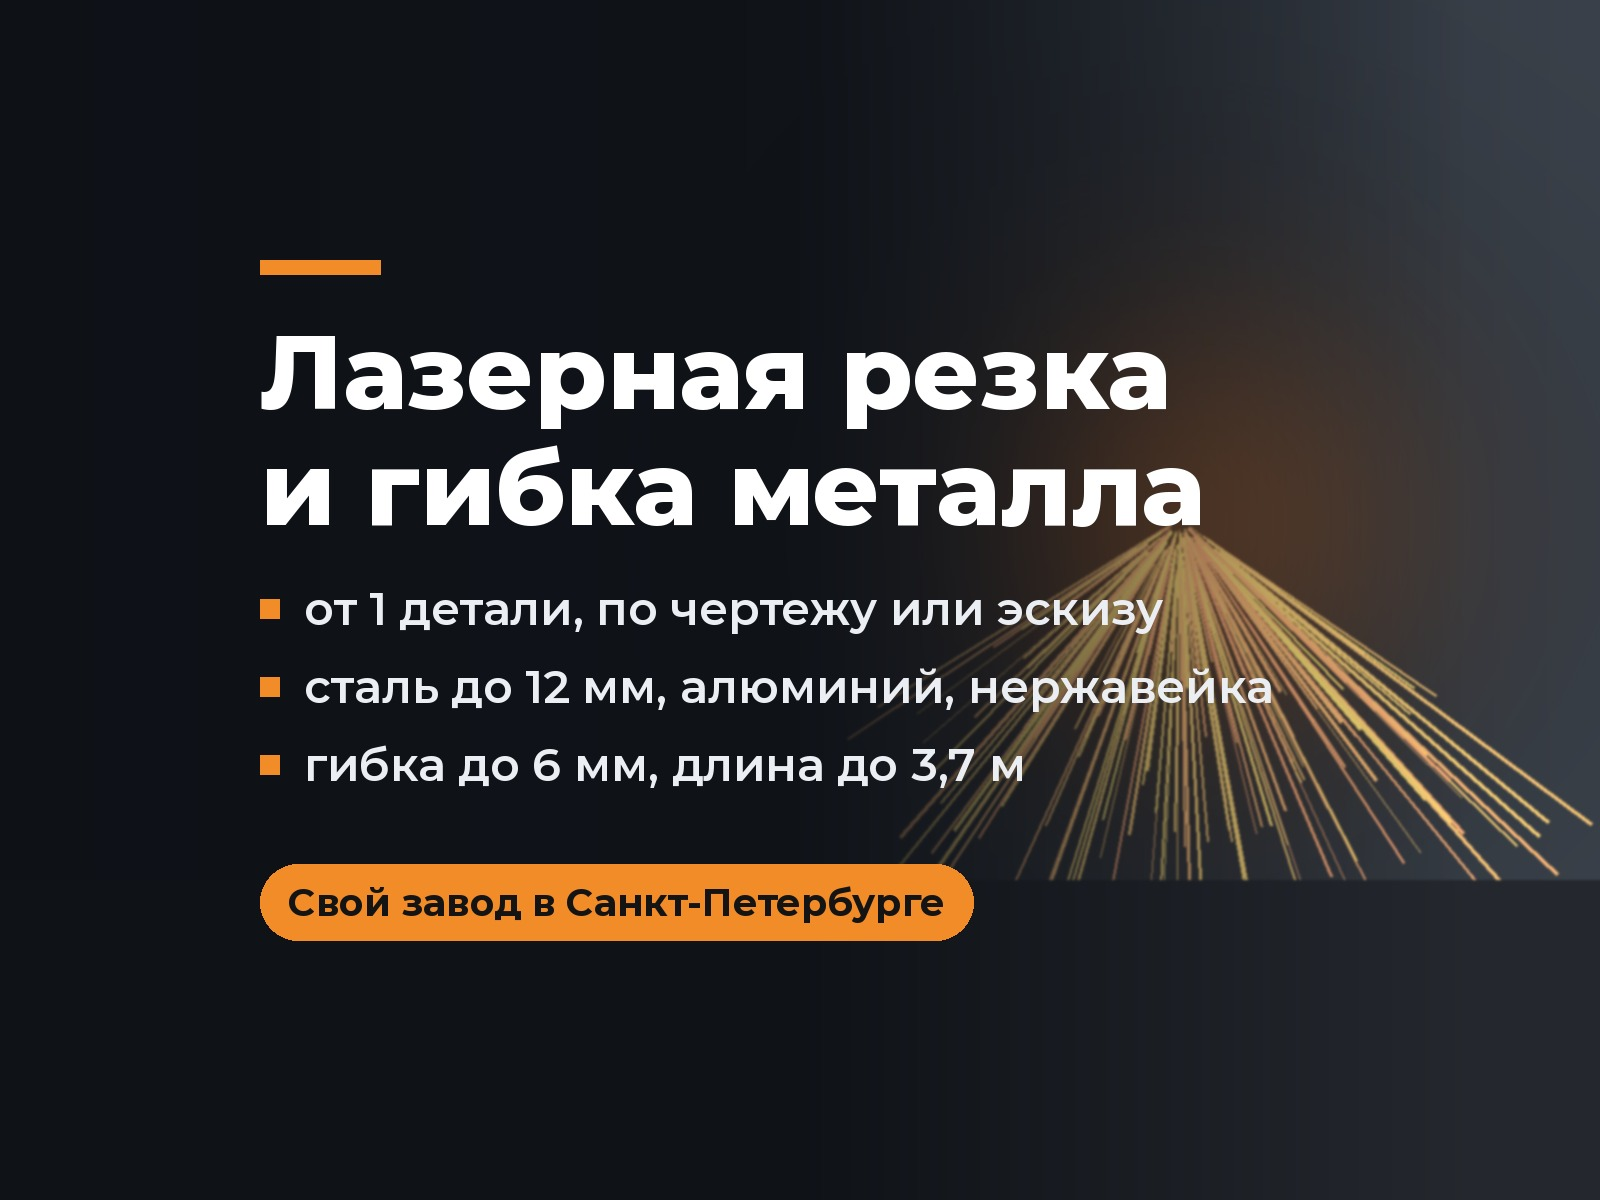
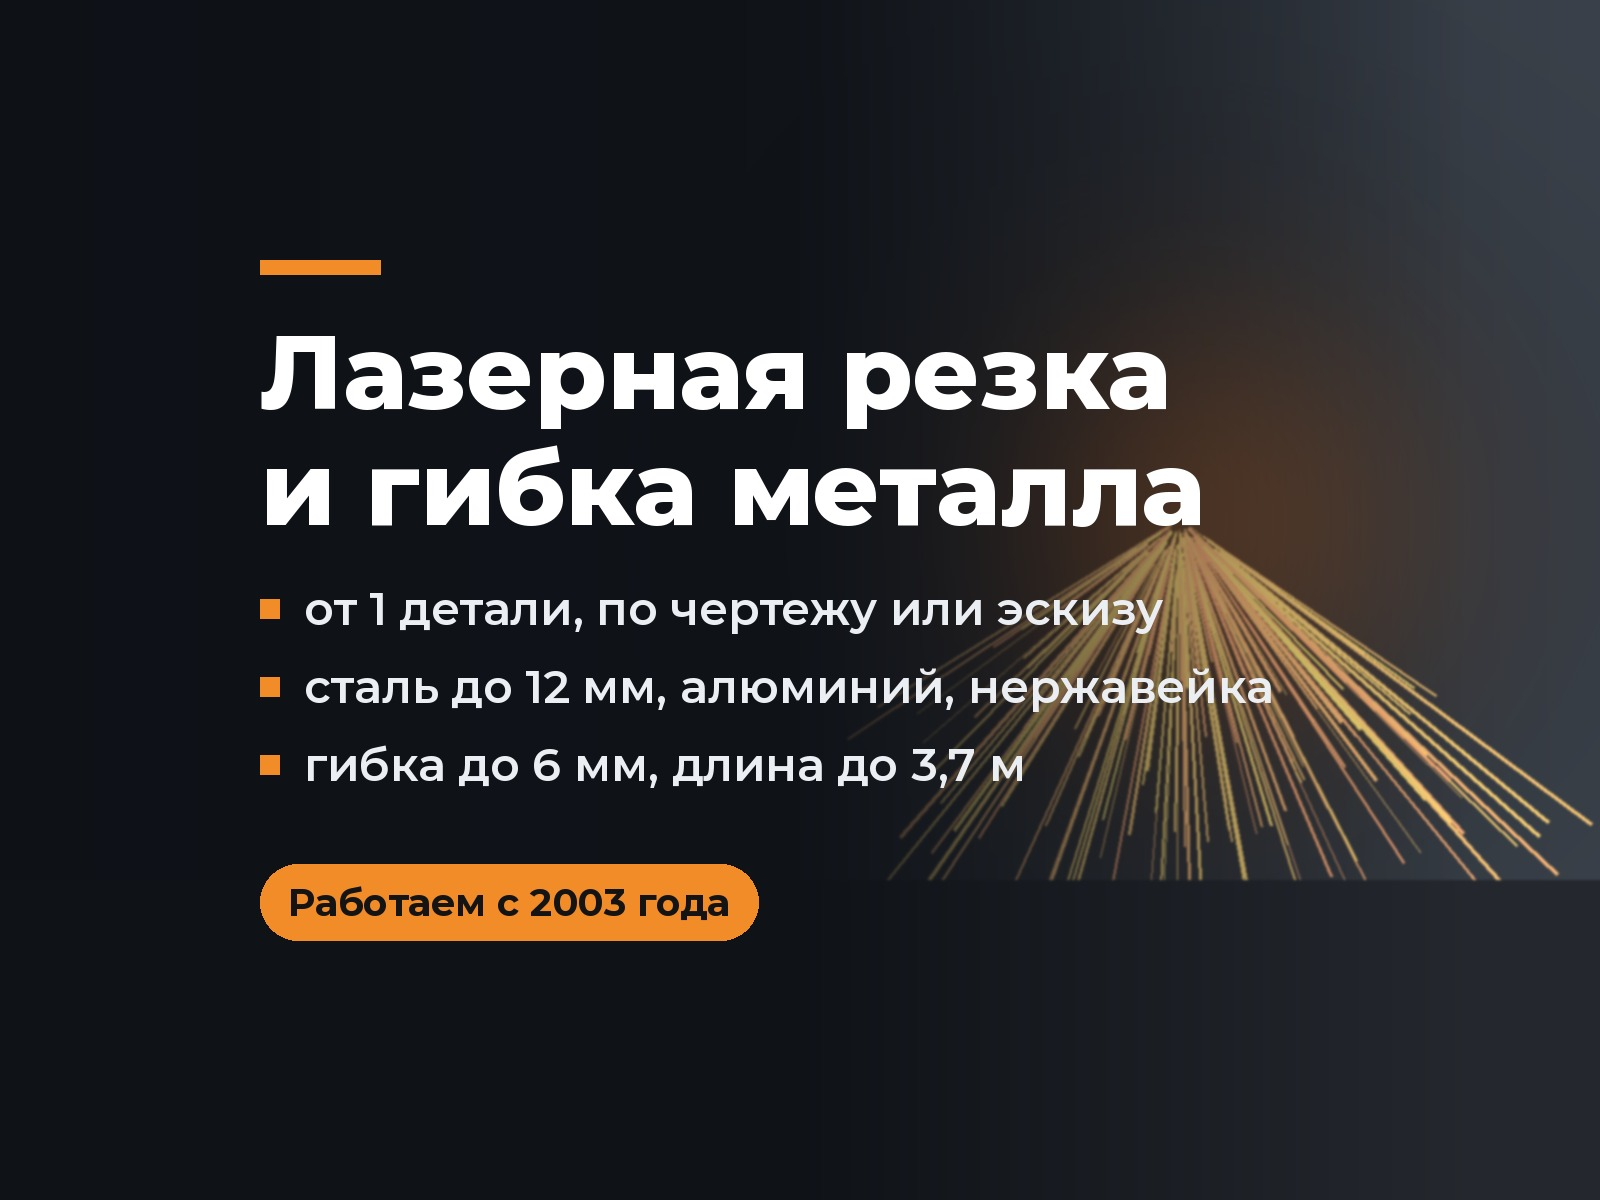
Убрать «свой завод в СПб»: новые плашки на обложках, правка 1А
Claude-Session: https://claude.ai/code/session_018fd5MUWiMpAxwiSGhvjo2N

Changed region(s): [[0.1562, 0.7092, 0.625, 0.8017]]

diff --git a/фото/обложка.py b/фото/обложка.py
@@ -28,7 +28,7 @@ COVERS = {
             "сталь до 12 мм, алюминий, нержавейка",
             "гибка до 6 мм, длина до 3,7 м",
         ],
-        "badge": "Свой завод в Санкт-Петербурге",
+        "badge": "Работаем с 2003 года",
     },
     "2": {
         "title": ["Металлоконструкции", "на заказ"],
@@ -37,7 +37,7 @@ COVERS = {
             "от раскроя до сварки в одном цехе",
             "сварщики НАКС, цех 3 200 м²",
         ],
-        "badge": "Свой завод в Санкт-Петербурге",
+        "badge": "500+ объектов в 30+ регионах",
     },
 }
 

diff --git a/объявления/1-лазерная-резка-и-гибка.md b/объявления/1-лазерная-резка-и-гибка.md
@@ -19,7 +19,7 @@
 **Описание**
 
 ```text
-Режем лазером и гнём детали из листа по вашему чертежу или эскизу, от одной штуки до партии. Сталь до 12 мм, алюминий, нержавейка, латунь, медь. Свой завод в Санкт-Петербурге, работаем с НДС.
+Режем лазером и гнём детали из листа по вашему чертежу или эскизу, от одной штуки до партии. Сталь до 12 мм, алюминий, нержавейка, латунь, медь. Производство в Санкт-Петербурге, работаем с НДС.
 
 ✅ Резка, гибка, рубка и распил в одном цехе: заготовка не ездит между подрядчиками.
 ✅ Цену резки знаете заранее: считаем по длине реза и числу отверстий.
